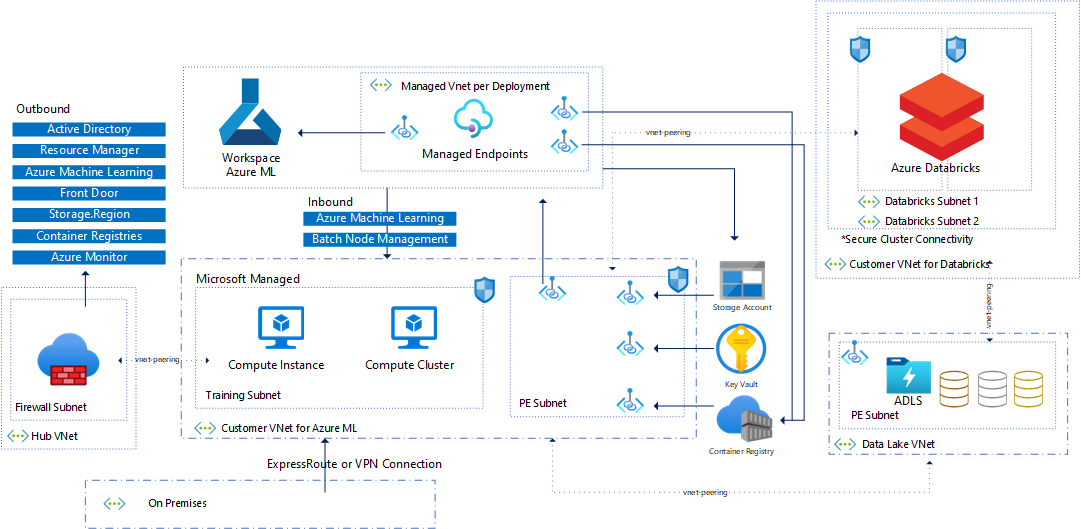
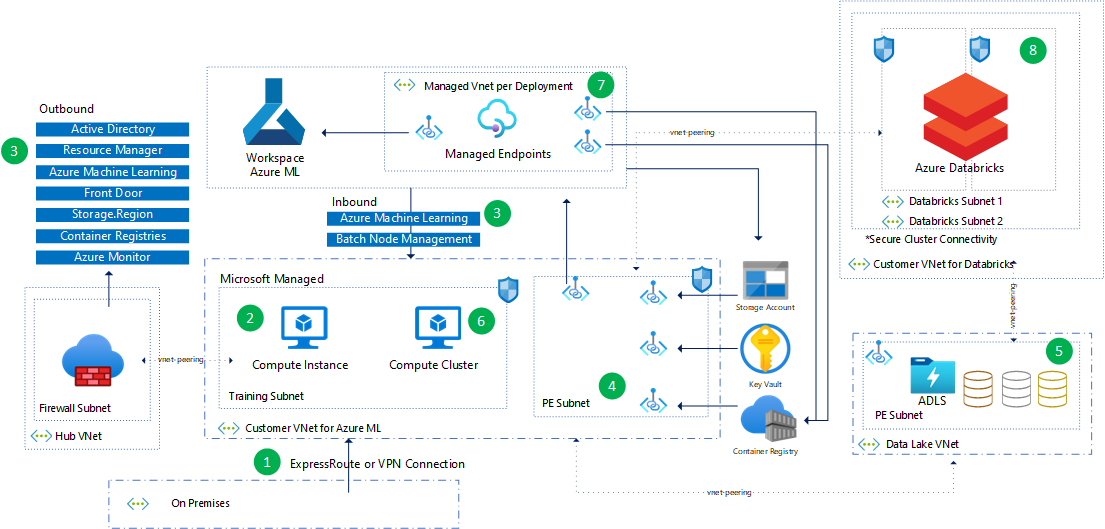
Update Dataflow and add a diagram with the steps

diff --git a/docs/solution-ideas/articles/secure-ml-architecture-fsi-content.md b/docs/solution-ideas/articles/secure-ml-architecture-fsi-content.md
@@ -21,24 +21,19 @@
 
 1. Users connect to the Data Science & Machine Learning environment through a VPN Connection or an ExpressRoute link. 
 
-2. They work in Compute Instances created within a secure Azure ML Workspace to train Machine Learning models (alternativelly, they can choose to work on Databricks Workspaces as well).
+2. They work in Compute Instances created within a secure Azure ML Workspace to train Machine Learning models (alternatively, they can choose to work on Databricks Workspaces as well).
 
-3. The inbound and outbound network traffic is configured according to the public internet access requirements. Some service tags are registered to allow this traffic properly. Please check this [doc](https://learn.microsoft.com/en-us/azure/machine-learning/how-to-secure-workspace-vnet?tabs=required%2Cpe%2Ccli) for more details about that.
+3. The inbound and outbound network traffic is configured according to the public internet access requirements. Some service tags are registered to allow proper traffic according to the [documentation](https://learn.microsoft.com/en-us/azure/machine-learning/how-to-secure-workspace-vnet?tabs=required%2Cpe%2Ccli).
 
-4. All the environment works in a secure and private context, all the resources (Azure ML Workspace, Storage Account, AKV and ACR) using private endpoints allocated in a customer VNet.
+4. All resources (Azure ML Workspace, Storage Account, AKV, and ACR) use private endpoints allocated in a customer VNet to ensure the private traffic.
 
-5. This VNet can have peering with other VNets as well. For example, it is important to secure connect to a Data Lake storage to be able to use the data from different layers: bronze, silver and gold, in the ML models being developed.
+5. The customer VNet for Azure ML can communicate with other VNets as well through peering. For example, it is important to securely connect to a Data Lake storage to be able to use the data from different layers: bronze, silver, and gold, in developed ML models.
 
-6. Once the Data Scientists concluded their experiments in the Compute Intances they can move forward to implement the pipelines using more robust computation (Compute Clusters).
+6. Once the Data Scientists concluded their experiments in the Compute instances they can move forward with implementing the pipelines using more robust computation (Compute Clusters).
 
-7. They can also deploy the models for Batch or Real-Time consumption thought Inference endpoints deployed on Managed Online Endpoints. All these endpoints are secured by Private Endpoints connected with the other resources.
+7. They can also deploy the models for Batch or Real-Time consumption through Inference endpoints deployed on Managed Online Endpoints. All these endpoints are secured by Private Endpoints connected with the other Azure ML resources.
 
-
-8. A secure Databricks environment can also be used along with the other services in order to provide more capabilities about Data processing using Spark engine.
-
-
-
-
+8. A secure Databricks environment can also be used along with the other services in order to provide more capabilities for Data processing using the Spark engine.
 
 ### Components
 
